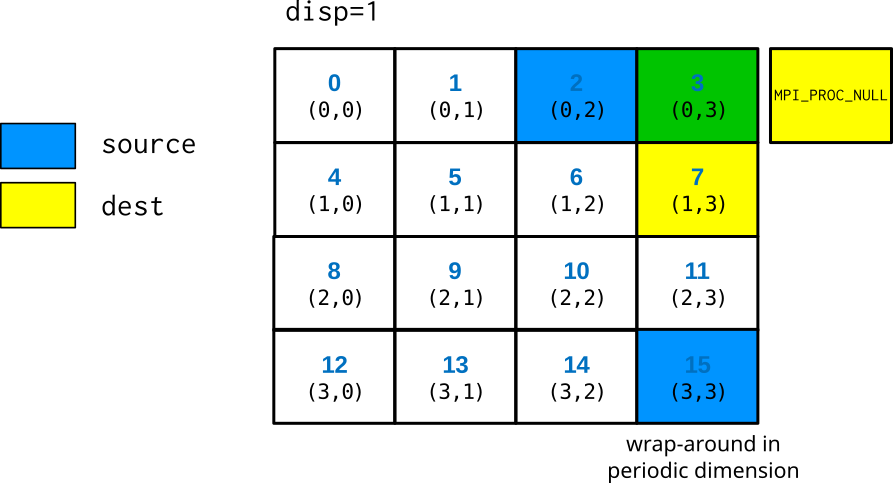
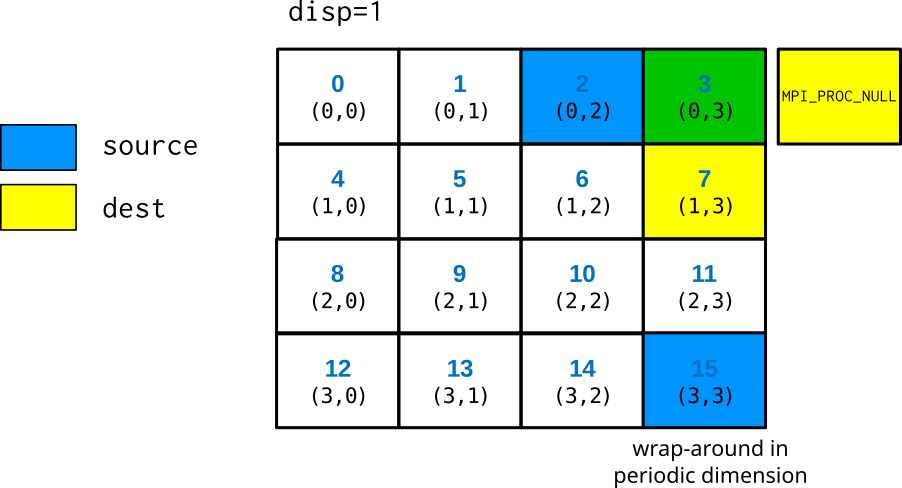
Use pngs in slides

diff --git a/mpi/docs/02-mpi-p2p.md b/mpi/docs/02-mpi-p2p.md
@@ -22,7 +22,7 @@ lang:   en
 
 <div class="column">
 
-![](img/communication-schematic.svg){.center width=50%}
+![](img/communication-schematic.png){.center width=50%}
 
 </div>
 
@@ -42,7 +42,7 @@ lang:   en
 # Case study: parallel sum 
 
 <div class=column>
-![](img/case_study_left-01.svg){.center width=45%}
+![](img/case_study_left-01.png){.center width=45%}
 </div>
 
 <div class=column>
@@ -63,14 +63,14 @@ lang:   en
 # Case study: parallel sum 
 
 <div class=column>
-![](img/case_study_left-02.svg){.center width=45%}
+![](img/case_study_left-02.png){.center width=45%}
 </div>
 <div class=coulumn>
 
 **Step 1.1**: Receive call in scatter
 
 <p>
-![](img/case_study_right-01.svg){.center width=45%}
+![](img/case_study_right-01.png){.center width=45%}
 <p>
 P1 issues MPI_Recv to receive half of the array from P0
 </div>
@@ -79,13 +79,13 @@ P1 issues MPI_Recv to receive half of the array from P0
 # Case study: parallel sum 
 
 <div class=column>
-![](img/case_study_left-03.svg){.center width=45%}
+![](img/case_study_left-03.png){.center width=45%}
 </div>
 <div class=coulumn>
 **Step 1.2**: Send call in scatter
 
 <p>
-![](img/case_study_right-02.svg){.center width=45%}
+![](img/case_study_right-02.png){.center width=45%}
 <p>
 P0 issues an MPI_Send to send the lower part of the array to P1
 </div>
@@ -93,13 +93,13 @@ P0 issues an MPI_Send to send the lower part of the array to P1
 # Case study: parallel sum 
 
 <div class=column>
-![](img/case_study_left-04.svg){.center width=45%}
+![](img/case_study_left-04.png){.center width=45%}
 </div>
 <div class=coulumn>
 **Step 2**: Compute the sum in parallel
 
 <p>
-![](img/case_study_right-03.svg){.center width=45%}
+![](img/case_study_right-03.png){.center width=45%}
 <p>
 Both P0 & P1 compute their partial sums and store them locally
 </div>
@@ -107,13 +107,13 @@ Both P0 & P1 compute their partial sums and store them locally
 # Case study: parallel sum 
 
 <div class=column>
-![](img/case_study_left-05.svg){.center width=45%}
+![](img/case_study_left-05.png){.center width=45%}
 </div>
 <div class=coulumn>
 **Step 3.1**: Receive call in reduction
 
 <p>
-![](img/case_study_right-04.svg){.center width=45%}
+![](img/case_study_right-04.png){.center width=45%}
 <p>
 P0 issues an MPI_Recv operation for receiving P1’s partial sum
 </div>
@@ -121,13 +121,13 @@ P0 issues an MPI_Recv operation for receiving P1’s partial sum
 # Case study: parallel sum 
 
 <div class=column>
-![](img/case_study_left-06.svg){.center width=45%}
+![](img/case_study_left-06.png){.center width=45%}
 </div>
 <div class=coulumn>
 **Step 3.2**: Send call in reduction
 
 <p>
-![](img/case_study_right-05.svg){.center width=45%}
+![](img/case_study_right-05.png){.center width=45%}
 <p>
 P1 sends the partial sum to P0
 </div>
@@ -135,13 +135,13 @@ P1 sends the partial sum to P0
 # Case study: parallel sum 
 
 <div class=column>
-![](img/case_study_left-07.svg){.center width=45%}
+![](img/case_study_left-07.png){.center width=45%}
 </div>
 <div class=coulumn>
 **Step 3.3**: compute the final answer
 
 <p>
-![](img/case_study_right-06.svg){.center width=45%}
+![](img/case_study_right-06.png){.center width=45%}
 <p>
 P0 computes the total sum
 </div>

diff --git a/mpi/docs/05-collectives.md b/mpi/docs/05-collectives.md
@@ -60,7 +60,7 @@ the task 0 to all other tasks
 
 - Replicate data from one process to all others
 
-![](img/bcast_comment.svg){.center width=80%}
+![](img/bcast_comment.png){.center width=80%}
 
 # Broadcasting {.split-definition}
 
@@ -89,7 +89,7 @@ MPI_Bcast(`buf`{.input}`fer`{.output}, `count`{.input}, `datatype`{.input}, `roo
 
 - Send equal amount of data from one process to others
 
-![](img/scatter.svg){.center width=80%}
+![](img/scatter.png){.center width=80%}
 
 <p>
 - Segments A, B, … may contain multiple elements
@@ -231,7 +231,7 @@ Assume 4 MPI tasks. What are the values in aloc in the last task (#3)?
 
 - Collect data from all the process to one process
 
-![](img/gather.svg){.center width=80%}
+![](img/gather.png){.center width=80%}
 
 - Segments A, B, ... may contain multiple elements
 
@@ -304,7 +304,7 @@ MPI_Gatherv(`sendbuf`{.input}, `sendcount`{.input}, `sendtype`{.input}, `recvbuf
 
 - Applies an operation over set of processes and places result in single process  
 
-![](img/reduce.svg){.center width=80%}
+![](img/reduce.png){.center width=80%}
 
 # Available reduction operations
 
@@ -423,7 +423,7 @@ call mpi_allreduce(rloc, r, 1, MPI_REAL,&
 	- Compare: `MPI_Gather` + `MPI_Bcast`
     
 <p>
-![](img/allgather.svg){.center width=50%}
+![](img/allgather.png){.center width=50%}
 
 
 # All gather {.split-definition}
@@ -452,7 +452,7 @@ MPI_Allgather(`sendbuf`{.input}, `sendcount`{.input}, `sendtype`{.input}, `recvb
 - Send a distinct message from each task to every task
 
 <p>
-![](img/alltoall.svg){.center width=80%}
+![](img/alltoall.png){.center width=80%}
 
 <p>
 - "Transpose" like operation
@@ -537,5 +537,5 @@ Assume 4 MPI tasks. What will be the values of **aloc in the process #0?**
 
 # Summary
 
-![](img/collective-patterns.svg){.center width=100%}
+![](img/collective-patterns.png){.center width=100%}
 

diff --git a/mpi/docs/08-non-blocking-communication.md b/mpi/docs/08-non-blocking-communication.md
@@ -99,7 +99,7 @@ A call to `MPI_Test` is non-blocking. It allows one to schedule alternative acti
 **`compute`(<font color="purple">border_data</font>)**  
 </div>
 <div class=column>
-![](img/usage_pattern.svg){.center width=100%}
+![](img/usage_pattern.png){.center width=100%}
 </div>
 
 # Additional completion operations
@@ -198,10 +198,10 @@ Allows incoming messages to be checked, without actually receiving them.
 
 # Non-blocking collectives
 
-![](img/non_blocking_large.svg){.center width=100%}
+![](img/non_blocking_large.png){.center width=100%}
 
-![](img/blue_arrow.svg){width=1%} (Computation) work 1  
-![](img/green_arrow.svg){width=1%} (Computation) work 2, not
+![](img/blue_arrow.png){width=1%} (Computation) work 1  
+![](img/green_arrow.png){width=1%} (Computation) work 2, not
 involving data in the ``Allreduce`` operation
 
 # Example: Non-blocking broadcasting {.split-definition}

diff --git a/mpi/docs/06-custom-communicators-split.md b/mpi/docs/06-custom-communicators-split.md
@@ -26,7 +26,7 @@ lang:   en
     - Unique rank in each communicator
 </div>
 <div class="column">
-![](img/communicator.svg){.center width=80%}
+![](img/communicator.png){.center width=80%}
 </div>
 
 
@@ -82,7 +82,7 @@ I am rank 5 in MPI_COMM_WORLD, but 2 in Comm 2.
 I am rank 1 in MPI_COMM_WORLD, but 0 in Comm 2.
 ```
 
-![](img/communicator.svg){.center width=50%}
+![](img/communicator.png){.center width=50%}
 
 </div>
 
@@ -104,9 +104,9 @@ MPI_Bcast(sendbuf, 8, MPI_INT, 0, subcomm);
 </div>
 <div class=column>
 Before broadcast:
-![](img/colorcomm1.svg){width=90%}
+![](img/colorcomm1.png){width=90%}
 After broadcast:
-![](img/colorcomm2.svg){width=90%}
+![](img/colorcomm2.png){width=90%}
 </div>
 
 # Communicator manipulation

diff --git a/mpi/docs/01-intro-to-mpi.md b/mpi/docs/01-intro-to-mpi.md
@@ -21,7 +21,7 @@ lang:   en
 
 # Processes and threads
 
-![](img/processes-threads-highlight-proc.svg){.center width=90%}
+![](img/processes-threads-highlight-proc.png){.center width=90%}
 
 <div class="column">
 
@@ -82,7 +82,7 @@ if (rank == 1) {
 - All variables and data structures are local to the process
 - Processes can exchange data by sending and receiving messages
 
-![](img/data-model.svg){.center width=100%}
+![](img/data-model.png){.center width=100%}
 
 # The MPI library
 

diff --git a/mpi/docs/03-special-variables.md b/mpi/docs/03-special-variables.md
@@ -149,7 +149,7 @@ MPI_Recv(`buffer`{.output}, `count`{.input}, `datatype`{.input}, `source`{.input
 
 # Main - worker 
 
-![](img/comm_patt1.svg){.center width=100%}
+![](img/comm_patt1.png){.center width=100%}
 
 <br>
 
@@ -157,7 +157,7 @@ MPI_Recv(`buffer`{.output}, `count`{.input}, `datatype`{.input}, `source`{.input
 
 # Pairwise neighbour communication
 
-![](img/comm_patt2.svg){.center width=90%}
+![](img/comm_patt2.png){.center width=90%}
 
 <br>
 

diff --git a/mpi/docs/07-custom-communicators-cartesian.md b/mpi/docs/07-custom-communicators-cartesian.md
@@ -15,7 +15,7 @@ lang:   en
     - Unique rank in each communicator
 </div>
 <div class="column">
-![](img/communicator.svg){.center width=80%}
+![](img/communicator.png){.center width=80%}
 </div>
 
 # Process topologies
